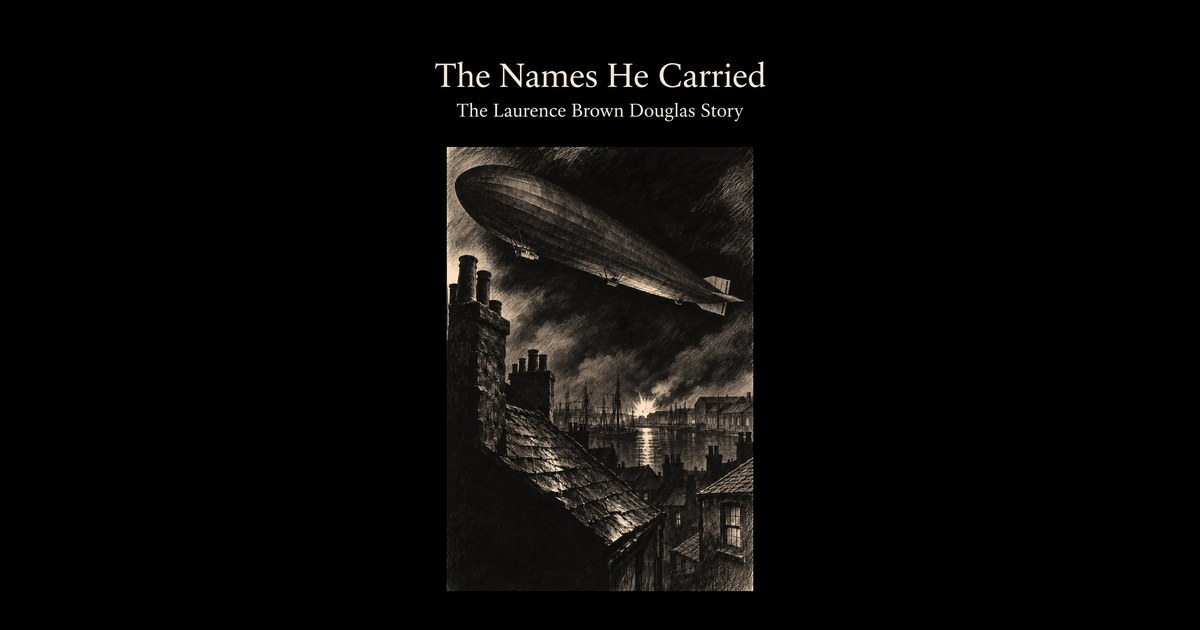
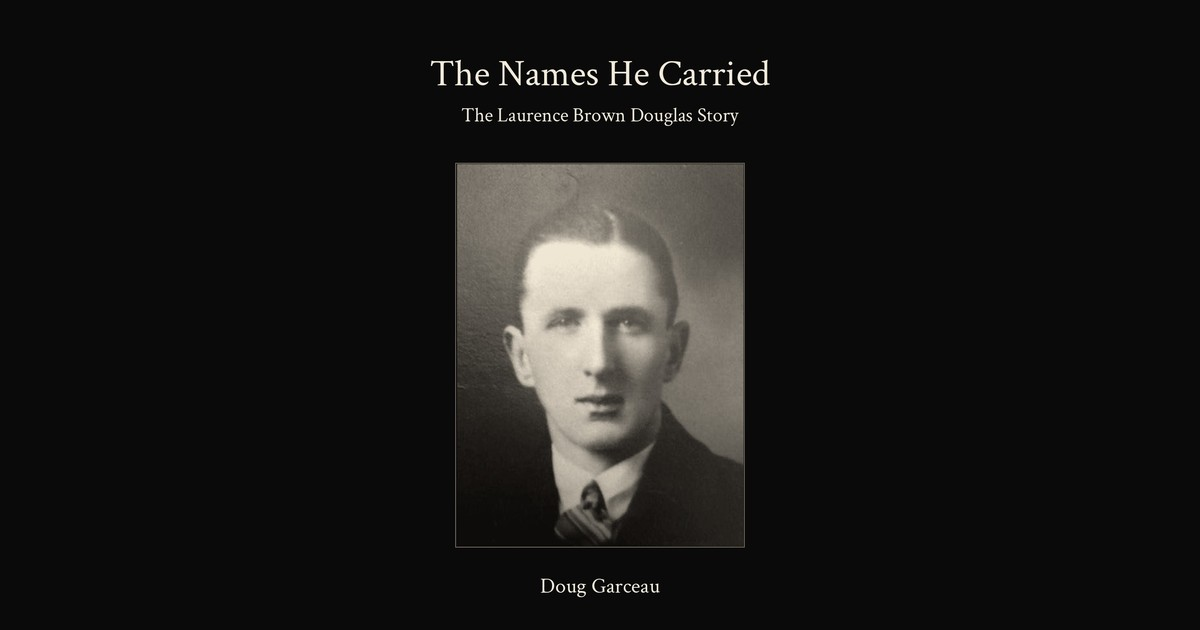
The Names He Carried: new cover with Laurence's portrait
Claude-Session: https://claude.ai/code/session_01Rvhfw8Nstu5ZfnrZGUcsba

Changed region(s): [[0.3392, 0.0905, 0.6475, 0.9651]]

diff --git a/the-names-he-carried/index.html b/the-names-he-carried/index.html
@@ -248,7 +248,7 @@ function index(){
 const linkFor=([t,x])=>t==='scan'?`<a class="scan" href="${esc(x.page||x.file)}" target="_blank" rel="noopener">Open the document</a>`:ext(x.url,x.title);
 
 function route(){return `<section class="route"><p class="lab">Places in his life</p><div class="stops">${C.journey.map(([p,y,w])=>`<div class="stop"><i></i><b>${esc(p)}</b><span>${y} · ${esc(w)}</span></div>`).join('')}</div></section>`}
-function home(){return `<section class="hero"><p style="margin:0 auto 1.2em;font-size:1.2rem"><a class="go" href="grand-jury/#for-our-family">Read the family story and see the maps</a></p><h1 class="cover"><img src="img/cover-zeppelin.jpg" width="1024" height="1536" alt="The Names He Carried: The Laurence Brown Douglas Story"></h1><p class="lab">A book by Doug Garceau</p><p class="covcred">Cover design and image by Doug Garceau</p>
+function home(){return `<section class="hero"><p style="margin:0 auto 1.2em;font-size:1.2rem"><a class="go" href="grand-jury/#for-our-family">Read the family story and see the maps</a></p><h1 class="cover"><img src="img/cover-portrait.jpg" width="1024" height="1536" alt="The Names He Carried: The Laurence Brown Douglas Story"></h1><p class="lab">A book by Doug Garceau</p><p class="covcred">Cover design and image by Doug Garceau</p>
 <button class="go" data-go="chapter-${last||1}">${last>1?'Keep reading where you left off':'Read the book'}</button></section>
 <section class="film"><h2 class="big">The film</h2><p class="lede">His life in four minutes, told with the real records.</p>
 <video controls autoplay muted playsinline preload="metadata" poster="video/film-poster.jpg" width="1920" height="1080"><source src="video/the-names-he-carried-film.mp4" type="video/mp4"></video></section>${route()}
